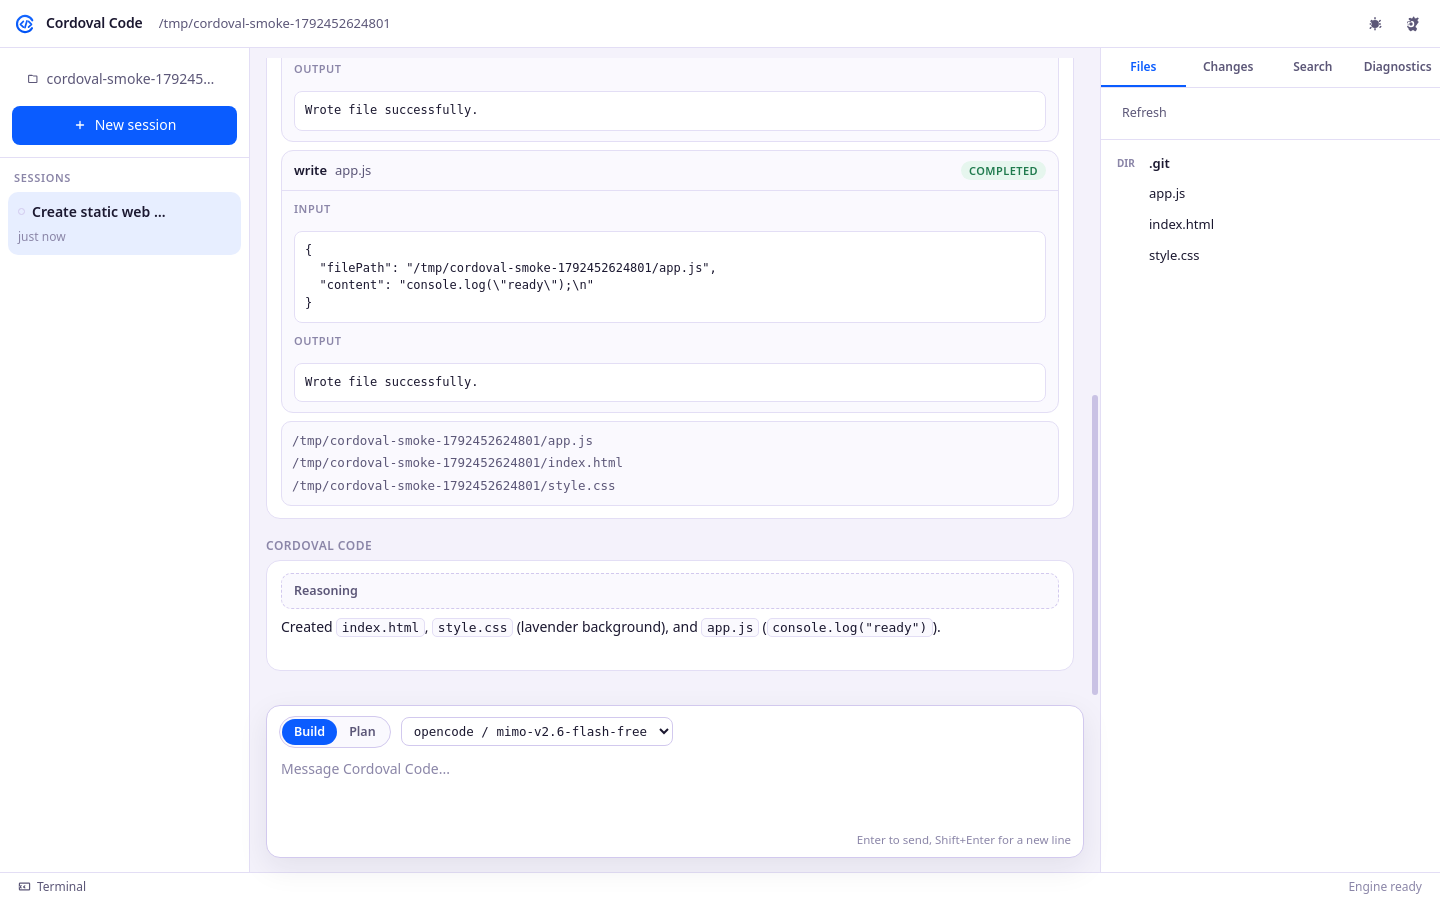
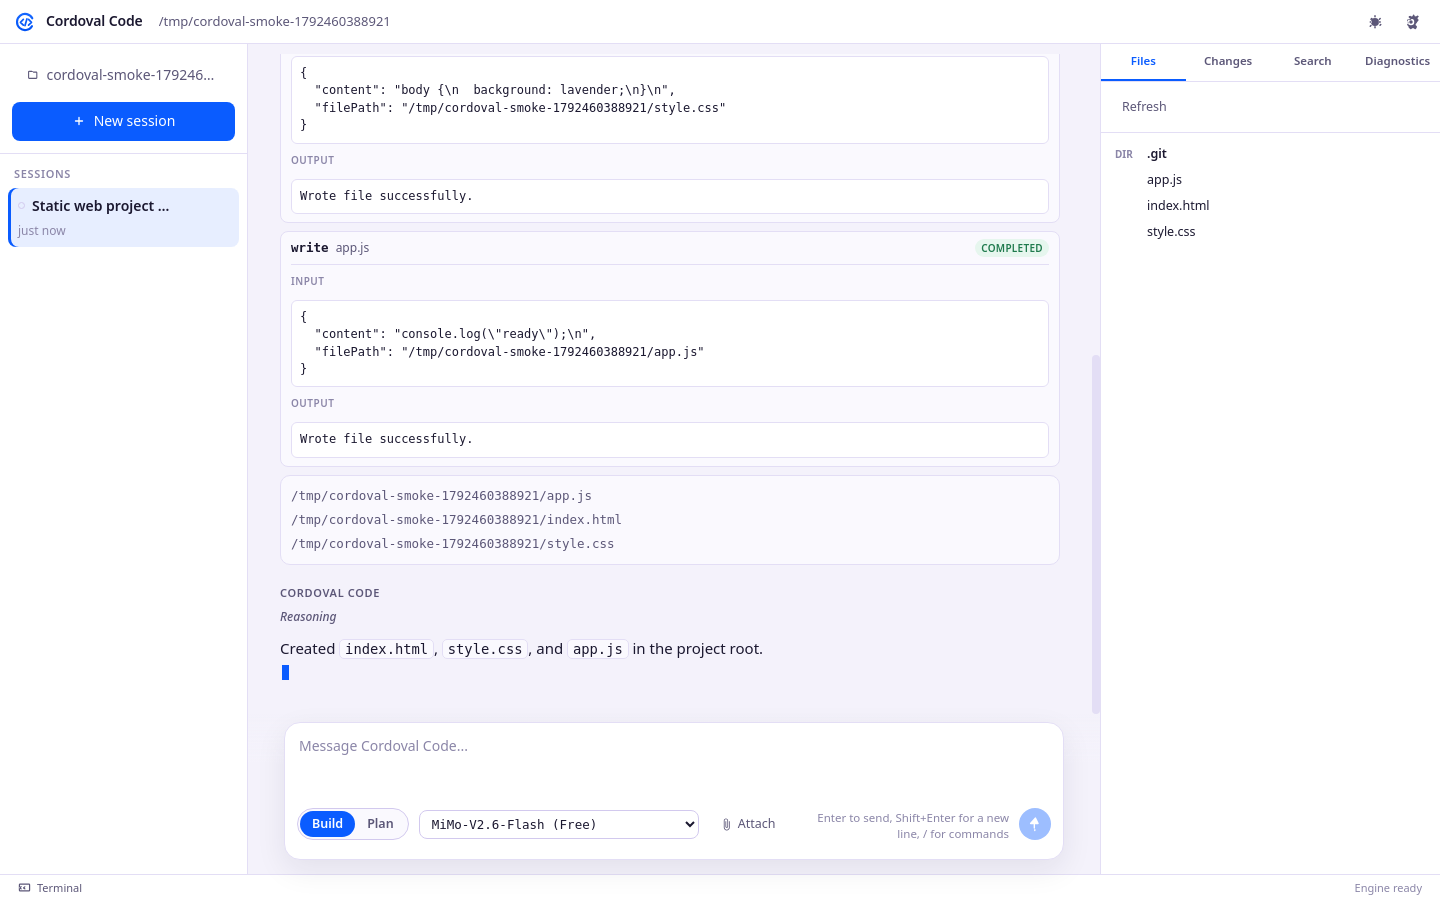
Collapse completed tool calls by default, remember expanded state

diff --git a/src/renderer/app.js b/src/renderer/app.js
@@ -559,7 +559,10 @@
     details.dataset.partId = part.id;
     const stateInfo = part.state || {};
     const status = String(stateInfo.status || 'pending');
-    if (status === 'completed' || status === 'error') details.open = true;
+    state.openTools = state.openTools || {};
+    if (part.id in state.openTools) details.open = !!state.openTools[part.id];
+    else if (status === 'error') details.open = true;
+    details.addEventListener('toggle', function () { state.openTools[part.id] = details.open; });
 
     const summary = el('summary');
     summary.appendChild(el('span', 'tool-name', part.tool || 'tool'));
